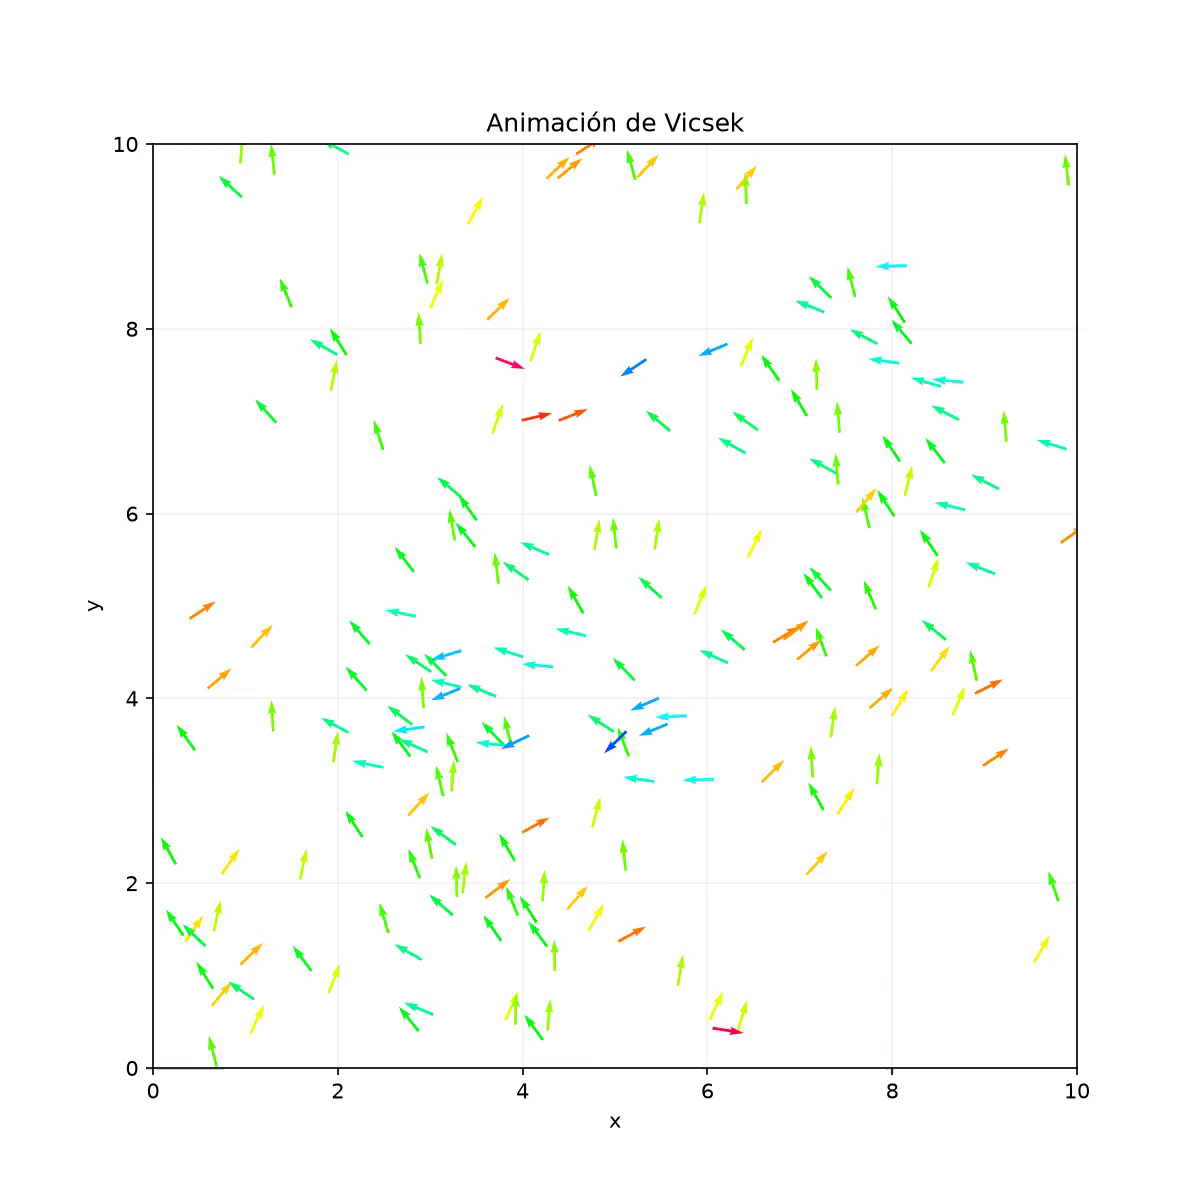
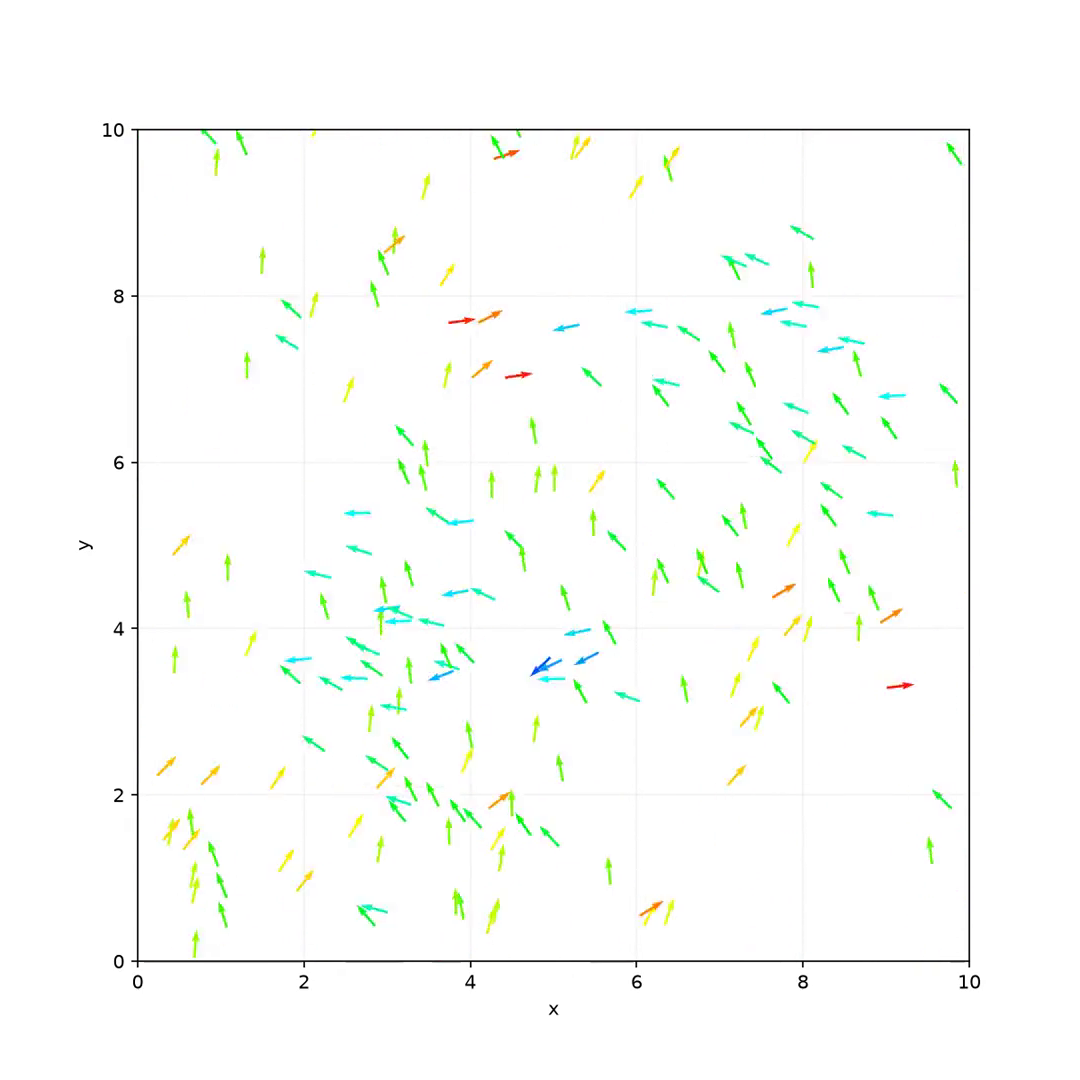
feat:added new images for animations

diff --git a/TP2/presentacion/template_presentacion_tp2.tex b/TP2/presentacion/template_presentacion_tp2.tex
@@ -52,18 +52,18 @@
 
 % URLs de las animaciones usadas en las diapositivas 14--16 y 20--22.
 % Reemplazar cada placeholder cuando el video correspondiente esté disponible.
-\newcommand{\animacionStandardRhoDosEtaUnoURL}{https://youtu.be/tjz83aO8iwQ}
-\newcommand{\animacionStandardRhoDosEtaDosURL}{https://youtu.be/RP3dOs-_ELc"}
-\newcommand{\animacionStandardRhoCuatroEtaUnoURL}{https://youtu.be/ngE39u-xCEI}
-\newcommand{\animacionStandardRhoCuatroEtaDosURL}{https://youtu.be/rkuXh_qFMdY}
-\newcommand{\animacionStandardRhoOchoEtaUnoURL}{https://youtu.be/gbwHo-AOQGQ}
-\newcommand{\animacionStandardRhoOchoEtaDosURL}{https://youtu.be/w-pdjDPP4RM}
-\newcommand{\animacionVoterRhoDosEtaUnoURL}{https://youtu.be/8RyfFk5Yj8Y}
-\newcommand{\animacionVoterRhoDosEtaDosURL}{https://youtu.be/z1xa2CueQdE}
-\newcommand{\animacionVoterRhoCuatroEtaUnoURL}{https://youtu.be/kPLsJwJBRlY}
-\newcommand{\animacionVoterRhoCuatroEtaDosURL}{https://youtu.be/jrqbFW_8UeE}
-\newcommand{\animacionVoterRhoOchoEtaUnoURL}{https://youtu.be/hr4IxYUil08}
-\newcommand{\animacionVoterRhoOchoEtaDosURL}{https://youtu.be/YiQn1nXZoMQ}
+\newcommand{\animacionStandardRhoDosEtaUnoURL}{https://youtu.be/sEDXRR8ARZ8}
+\newcommand{\animacionStandardRhoDosEtaDosURL}{https://youtu.be/j-hlr1N8Z2s}
+\newcommand{\animacionStandardRhoCuatroEtaUnoURL}{https://youtu.be/3qtWyzX8O0Y}
+\newcommand{\animacionStandardRhoCuatroEtaDosURL}{https://youtu.be/tSCNM-5Nypw}
+\newcommand{\animacionStandardRhoOchoEtaUnoURL}{https://youtu.be/CjRGO-5fePk}
+\newcommand{\animacionStandardRhoOchoEtaDosURL}{https://youtu.be/J3nHD0oBGfM}
+\newcommand{\animacionVoterRhoDosEtaUnoURL}{https://youtu.be/OyJbGN_weK4}
+\newcommand{\animacionVoterRhoDosEtaDosURL}{https://youtu.be/oLabBdmlHN4}
+\newcommand{\animacionVoterRhoCuatroEtaUnoURL}{https://youtu.be/XqlSIoh8m60}
+\newcommand{\animacionVoterRhoCuatroEtaDosURL}{https://youtu.be/IiN3baNlE9s}
+\newcommand{\animacionVoterRhoOchoEtaUnoURL}{https://youtu.be/j0L89se9d-U}
+\newcommand{\animacionVoterRhoOchoEtaDosURL}{https://youtu.be/JnMzeiVw5Tw}
 
 % Si existe logo_itba.png o logo_itba.pdf junto al .tex, se inserta.
 \newcommand{\institutionlogo}{%
@@ -199,8 +199,7 @@
       \maybeimage{#1}{#2}{#4}%
     \fi
     \par\vspace{1mm}
-    \href{#3}{{\color{TPBlue}\scriptsize
-      $\blacktriangleright$ Ver video en YouTube}}%
+    \href{#3}{{\color{TPBlue}\scriptsize\nolinkurl{#3}}}%
   \end{minipage}%
 }
 
@@ -290,7 +289,7 @@
       \end{itemize}
     \end{column}
     \begin{column}{0.42\textwidth}
-      \maybeimage{figuras/sistema-real.png}{3.7cm}{Insertar imagen del sistema real}
+      \maybeimage{figuras/enjambre.jpg}{3.7cm}{Insertar imagen del sistema real}
     \end{column}
   \end{columns}
 \end{frame}
@@ -316,19 +315,27 @@
 
 % 6. Arquitectura general
 \begin{frame}{Arquitectura}
-  Implementación:
-  \begin{itemize}
-    \item Lenguaje: [nombre y versión]
-    \item Bibliotecas: [bibliotecas principales]
-    \item Entorno: [entorno de ejecución]
-  \end{itemize}
-  Estructura:
-  \begin{itemize}
-    \item \texttt{[módulo-principal.py]}
-    \item \texttt{[modelo.py]}
-    \item \texttt{[procesamiento.py]}
-    \item \texttt{[visualización.py]}
-  \end{itemize}
+  \small
+  \begin{columns}[T,onlytextwidth]
+    \begin{column}{0.47\textwidth}
+      \textbf{Implementación}
+      \begin{itemize}
+        \item Lenguaje principal: Java 21
+        \item Análisis y visualización: Python 3
+        \item Bibliotecas: Matplotlib y JUnit 5
+      \end{itemize}
+    \end{column}
+    \begin{column}{0.50\textwidth}
+      \textbf{Estructura}
+      \begin{itemize}
+        \item Motor Java
+        \item Búsqueda de vecinos
+        \item Calculos y Análisis
+        \item Visualización
+        \item Comunicación
+      \end{itemize}
+    \end{column}
+  \end{columns}
 \end{frame}
 
 % 7. Diagrama de arquitectura
@@ -360,7 +367,7 @@
   Parámetros de entrada fijos:
   \begin{itemize}
     \item $r_c=1$ --- Radio de Interacción
-    \item $v=[\text{valor}]$ --- Modulo de la Velocidad
+    \item $v=0.03$ --- Modulo de la Velocidad
   \end{itemize}
   Parámetros de entrada variables:
   \begin{itemize}

diff --git a/TP2/presentacion/create_google_slides_sources.py b/TP2/presentacion/create_google_slides_sources.py
@@ -23,28 +23,28 @@ PAGE_WIDTH = 25_400
 PAGE_HEIGHT = 19_050
 ANIMATION_SLIDES = {
     14: (
-        ("η = 0.5", "https://youtu.be/tjz83aO8iwQ"),
-        ("η = 2", "https://youtu.be/RP3dOs-_ELc"),
+        ("η = 0.5", "https://youtu.be/sEDXRR8ARZ8"),
+        ("η = 2", "https://youtu.be/j-hlr1N8Z2s"),
     ),
     15: (
-        ("η = 0.5", "https://youtu.be/ngE39u-xCEI"),
-        ("η = 2", "https://youtu.be/rkuXh_qFMdY"),
+        ("η = 0.5", "https://youtu.be/3qtWyzX8O0Y"),
+        ("η = 2", "https://youtu.be/tSCNM-5Nypw"),
     ),
     16: (
-        ("η = 0.5", "https://youtu.be/gbwHo-AOQGQ"),
-        ("η = 2", "https://youtu.be/w-pdjDPP4RM"),
+        ("η = 0.5", "https://youtu.be/CjRGO-5fePk"),
+        ("η = 2", "https://youtu.be/J3nHD0oBGfM"),
     ),
     20: (
-        ("η = 0.5", "https://youtu.be/8RyfFk5Yj8Y"),
-        ("η = 2", "https://youtu.be/z1xa2CueQdE"),
+        ("η = 0.5", "https://youtu.be/OyJbGN_weK4"),
+        ("η = 2", "https://youtu.be/oLabBdmlHN4"),
     ),
     21: (
-        ("η = 0.5", "https://youtu.be/kPLsJwJBRlY"),
-        ("η = 2", "https://youtu.be/jrqbFW_8UeE"),
+        ("η = 0.5", "https://youtu.be/XqlSIoh8m60"),
+        ("η = 2", "https://youtu.be/IiN3baNlE9s"),
     ),
     22: (
-        ("η = 0.5", "https://youtu.be/hr4IxYUil08"),
-        ("η = 2", "https://youtu.be/YiQn1nXZoMQ"),
+        ("η = 0.5", "https://youtu.be/j0L89se9d-U"),
+        ("η = 2", "https://youtu.be/JnMzeiVw5Tw"),
     ),
 }
 
@@ -125,7 +125,7 @@ def add_link(document, page, url: str, x: int) -> None:
     shape.ZOrder = 101
     url_field = document.createInstance("com.sun.star.text.textfield.URL")
     url_field.URL = url
-    url_field.Representation = "▶ Ver video en YouTube"
+    url_field.Representation = url
     url_field.TargetFrame = "_blank"
     shape.Text.insertTextContent(shape.Text.createTextCursor(), url_field, False)
     cursor = shape.Text.createTextCursor()

diff --git a/TP2/scripts/animate.py b/TP2/scripts/animate.py
@@ -222,7 +222,6 @@ def render_animation(
     axis_ticks = [header.l * index / 5 for index in range(6)]
     ax.set_xticks(axis_ticks)
     ax.set_yticks(axis_ticks)
-    ax.set_title("Animación de Vicsek")
     ax.set_xlabel("x")
     ax.set_ylabel("y")
     ax.grid(alpha=0.15)
@@ -259,7 +258,6 @@ def render_animation(
     writer = FFMpegWriter(
         fps=fps,
         codec="libx264",
-        metadata={"title": "Animación de Vicsek"},
         extra_args=["-pix_fmt", "yuv420p", "-movflags", "+faststart"],
     )
     progress = ProgressBar(len(frames))

diff --git a/TP2/README.md b/TP2/README.md
@@ -351,7 +351,7 @@ siempre el último). También se pueden ajustar `--fps=30` y `--dpi=150`.
 
 La animación usa ejes fijos `[0,L] x [0,L]`, representa la velocidad con un
 vector y colorea cada vector según su ángulo. La visualización no muestra ejes,
-parámetros ni barra de colores y usa el título fijo `Animación de Viseck`.
+parámetros, barra de colores ni título fijo.
 Durante la codificación se muestra una barra de progreso con el porcentaje y la
 cantidad de cuadros procesados. Los MP4 no deben embeberse en el PDF de la
 presentación: hay que subirlos por separado y agregar links explícitos.
